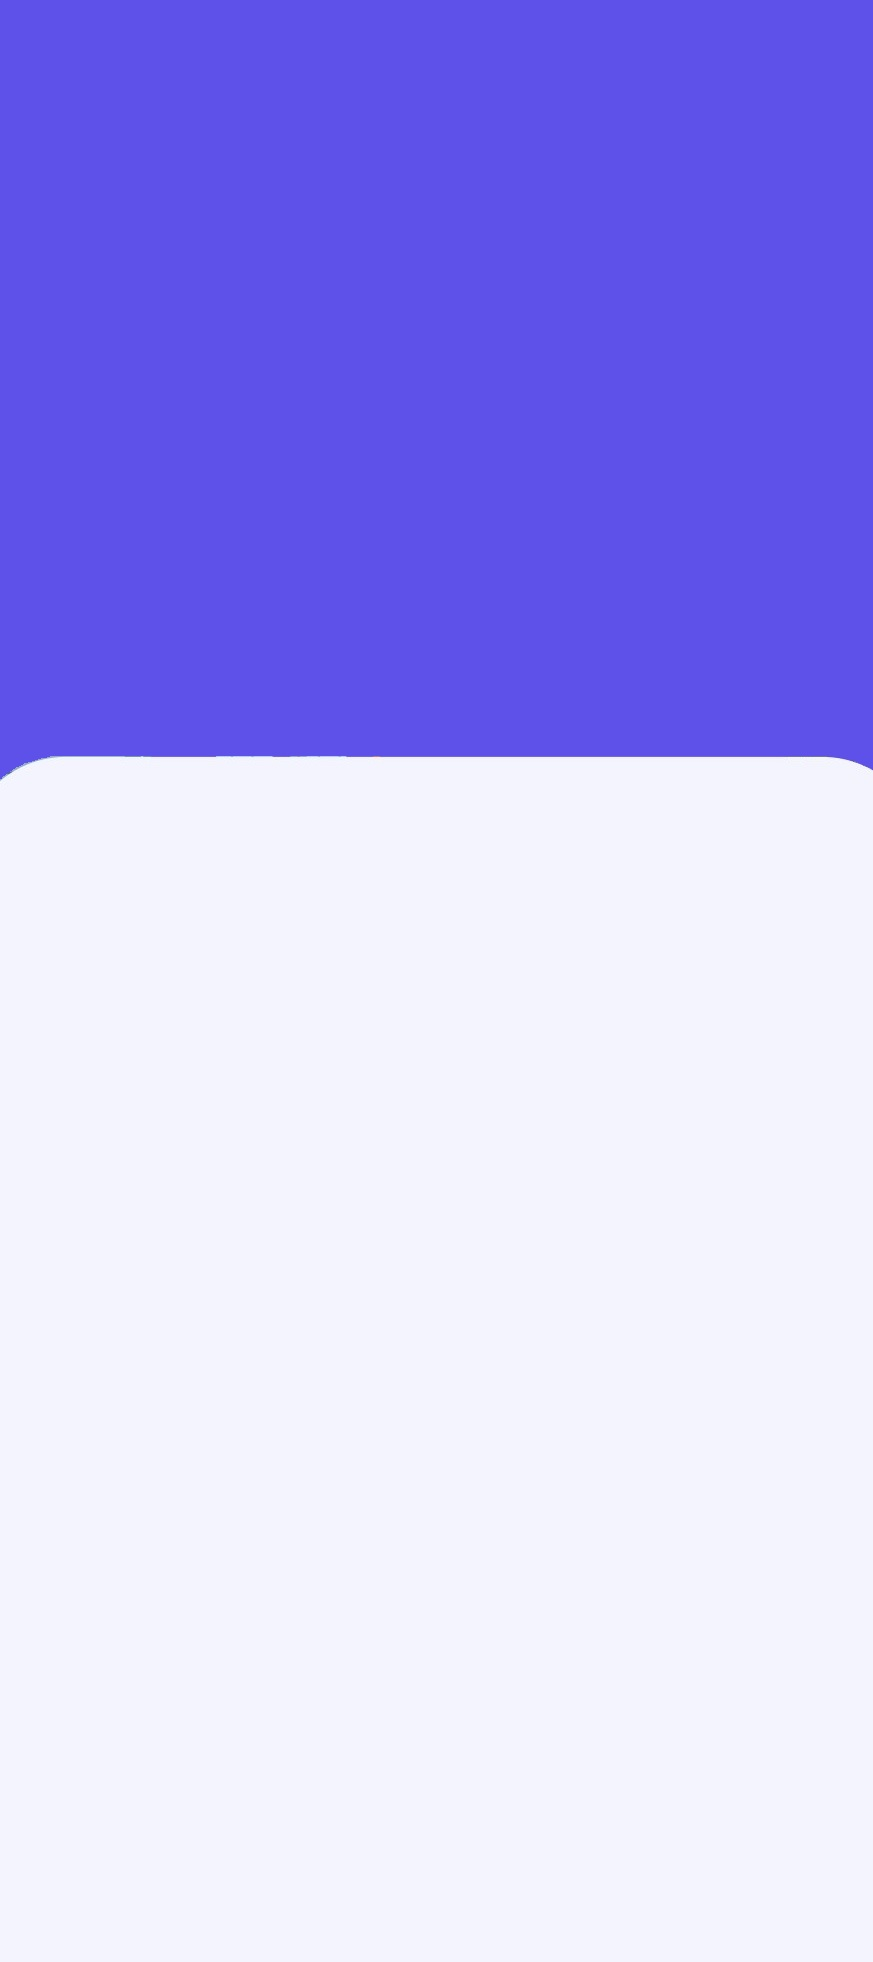
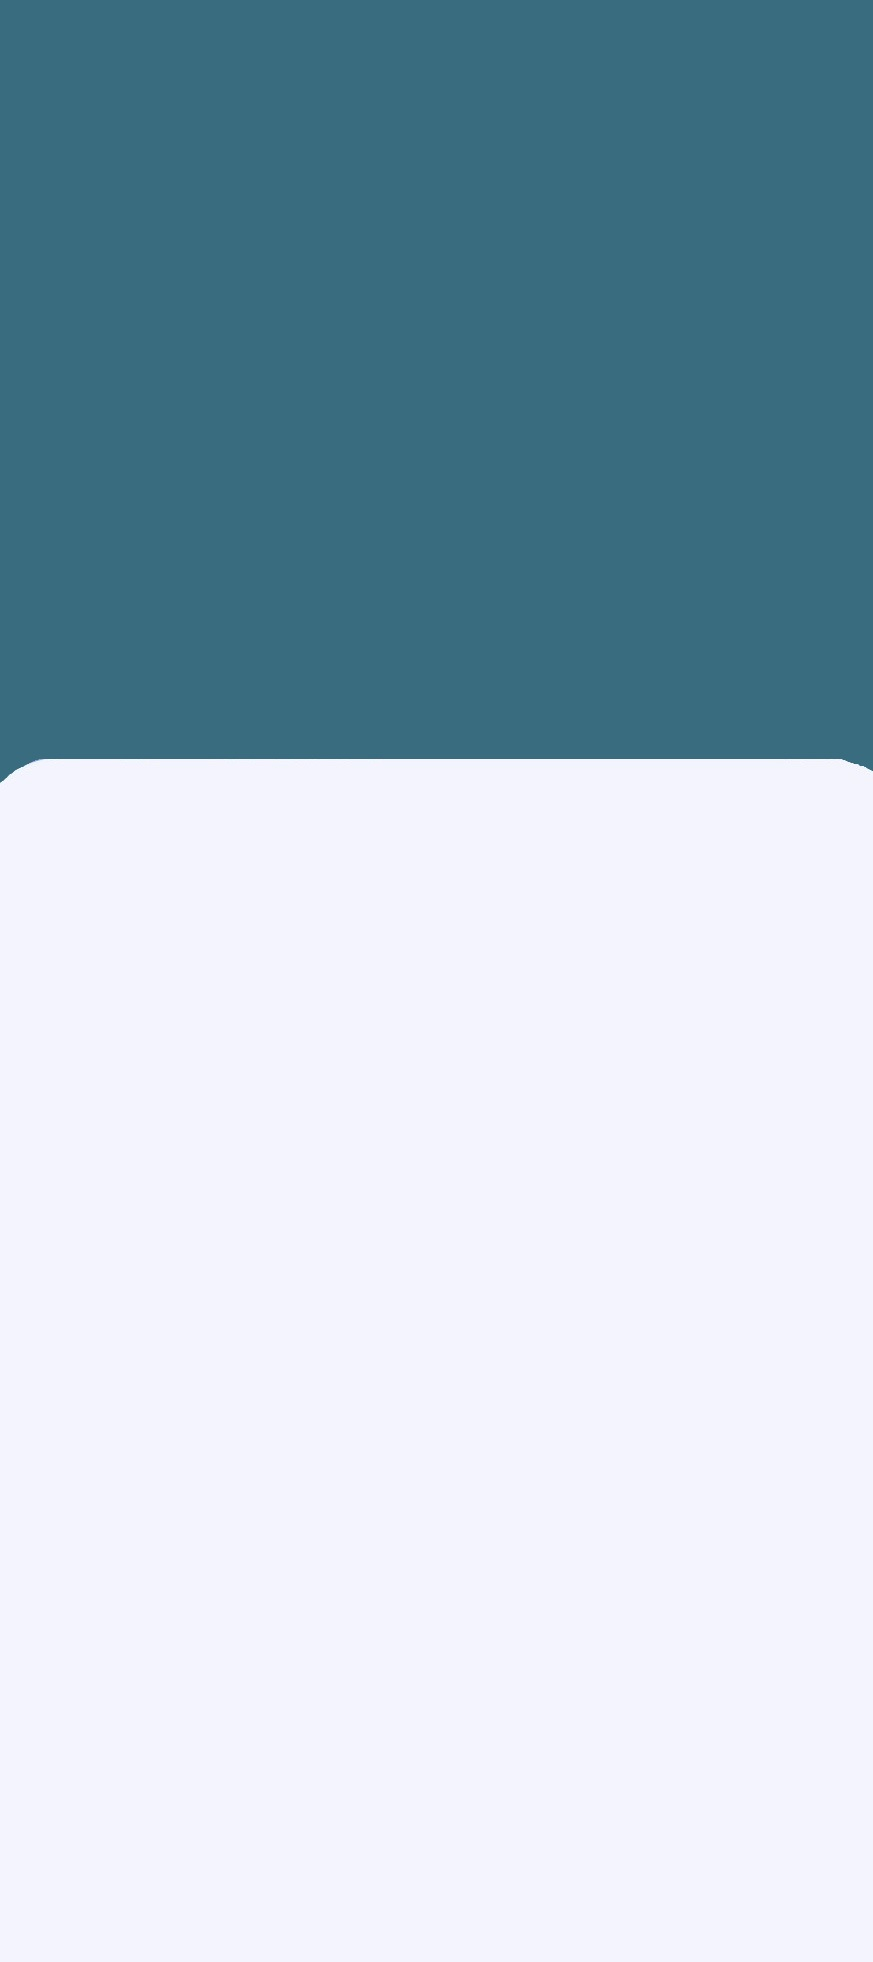
tamal

diff --git a/lib/ver2/editarmedicamento.dart b/lib/ver2/editarmedicamento.dart
@@ -152,144 +152,158 @@ void deleteMedication(BuildContext context, String key, medicationsRef) {
 
 
 
-  @override
-  Widget build(BuildContext context) {
-    return MaterialApp(
-      debugShowCheckedModeBanner: false,
-      home: Scaffold(
-       backgroundColor: Color.fromARGB(255, 244, 244, 254),
-        appBar: AppBar(
-          elevation: 0,
-          backgroundColor: Colors.transparent,
-          leading: IconButton(
-            icon: Icon(Icons.arrow_back, color: Colors.black),
-            onPressed: () {
-              Navigator.pop(context);
-            },
-          ),
-          title: Row(
-            children: [
-              IconButton(
-                icon: Image.asset('assets/iconos/icono2.png'),
-                onPressed: () {},
-              ),
-              SizedBox(width: 8),
-              Text(
-                'Medi plan',
-                style: TextStyle(
-                  color: Color.fromARGB(255, 48, 24, 49),
-                  fontSize: 16,
-                ),
-              ),
-            ],
-          ),
+@override
+Widget build(BuildContext context) {
+  return MaterialApp(
+    debugShowCheckedModeBanner: false,
+    home: Scaffold(
+      backgroundColor: Color.fromARGB(255, 244, 244, 254),
+      appBar: AppBar(
+        elevation: 0,
+        backgroundColor: Colors.transparent,
+        leading: IconButton(
+          icon: Icon(Icons.arrow_back, color: Colors.black),
+          onPressed: () {
+            Navigator.pop(context);
+          },
         ),
-        body: Column(
+        title: Row(
           children: [
+            IconButton(
+              icon: Image.asset('assets/iconos/icono2.png'),
+              onPressed: () {},
+            ),
+            SizedBox(width: 8),
             Text(
-              'Recordatorios',
+              'Medi plan',
               style: TextStyle(
-                fontSize: 20.0,
-                fontWeight: FontWeight.bold,
-              ),
-            ),
-            SizedBox(height: 16),
-            Text(
-              '_',
-              style: TextStyle(
-                fontSize: 16.0,
-                fontWeight: FontWeight.bold,
-                color: Colors.blueGrey,
-              ),
-              textAlign: TextAlign.left,
-            ),
-            Padding(
-              padding: EdgeInsets.all(10.0),
-              child: Column(
-                children: [
-                  ElevatedButton(
-                    onPressed: () => addMedication(context),
-                    child: Text(
-                      'Agregar medicamento',
-                      style: TextStyle( 
-                        fontSize: 15,
-                        color: Colors.white,
-                      ),
-                    ),
-                    style: ElevatedButton.styleFrom(
-                      primary: Color.fromARGB(255, 39, 71, 87),
-                      shape: RoundedRectangleBorder(
-                        borderRadius: BorderRadius.circular(10),
-                      ),
-                      minimumSize: Size(double.infinity, 45),
-                    ),
-                  ),
-                ],
-              ),
-            ),
-            Expanded(
-              child: ListView.builder(
-                itemCount: medication.length,
-                itemBuilder: (context, index) {
-                  String key = medication[index].id; // Utilizar la clave única (ID) del medicamento
-                  return Column(
-                    children: [
-                      ListTile(
-                        leading: GestureDetector(
-                          onTap: () {
-                            showDialog(
-                              context: context,
-                              builder: (BuildContext context) {
-                                return AlertDialog(
-                                  title: Text('Opciones de medicamento'),
-                                  content: Column(
-                                    mainAxisSize: MainAxisSize.min,
-                                    children: [
-                                      ListTile(
-                                        onTap: () {
-                                          Navigator.of(context).pop();
-                                          editMedication(context, medication[index]);
-                                        },
-                                        title: Text('Editar'),
-                                        leading: Icon(Icons.edit),
-                                      ),
-                                      ListTile(
-                                        onTap: () {
-                                          Navigator.of(context).pop();
-                                          deleteMedication(context, key, _medicationsRef);
-                                        },
-                                        title: Text('Eliminar'),
-                                        leading: Icon(Icons.delete),
-                                      ),
-                                    ],
-                                  ),
-                                );
-                              },
-                            );
-                          },
-                          child: Icon(Icons.medication, color: Colors.pinkAccent),
-                        ),
-                        title: Text('${medication[index].nombre}'),
-                        subtitle: Column(
-                          crossAxisAlignment: CrossAxisAlignment.start,
-                          children: [
-                            Text('Propósito: ${medication[index].proposito}'),
-                            Text('Duración de tratamiento: ${medication[index].administracion} días'),
-                            Text('Hora: ${medication[index].sheduleTime}'), // Mostrar la hora de administración
-                          ],
-                        ),
-                      ),
-                      Divider(),
-                    ],
-                  );
-                },
+                color: Color.fromARGB(255, 48, 24, 49),
+                fontSize: 16,
               ),
             ),
           ],
         ),
       ),
-    );
-  }
+      body: Column(
+        children: [
+          Text(
+            'Recordatorios',
+            style: TextStyle(
+              fontSize: 20.0,
+              fontWeight: FontWeight.bold,
+            ),
+          ),
+          SizedBox(height: 16),
+          Text(
+            '_',
+            style: TextStyle(
+              fontSize: 16.0,
+              fontWeight: FontWeight.bold,
+              color: Colors.blueGrey,
+            ),
+            textAlign: TextAlign.left,
+          ),
+          Padding(
+            padding: EdgeInsets.all(10.0),
+            child: Column(
+              children: [
+                ElevatedButton(
+                  onPressed: () => addMedication(context),
+                  child: Text(
+                    'Agregar medicamento',
+                    style: TextStyle(
+                      fontSize: 15,
+                      color: Colors.white,
+                    ),
+                  ),
+                  style: ElevatedButton.styleFrom(
+                    primary: Color.fromARGB(255, 39, 71, 87),
+                    shape: RoundedRectangleBorder(
+                      borderRadius: BorderRadius.circular(10),
+                    ),
+                    minimumSize: Size(double.infinity, 45),
+                  ),
+                ),
+              ],
+            ),
+          ),
+          Expanded(
+            child: ListView.builder(
+              itemCount: medication.length,
+              itemBuilder: (context, index) {
+                String key = medication[index].id;
+                return Padding(
+                  padding: EdgeInsets.symmetric(vertical: 8.0, horizontal: 16.0),
+                  child: Card(
+                    elevation: 4,
+                    shape: RoundedRectangleBorder(
+                      borderRadius: BorderRadius.circular(10),
+                    ),
+                    child: ListTile(
+                      contentPadding: EdgeInsets.all(16),
+                      leading: GestureDetector(
+                        onTap: () {
+                          // Tu lógica aquí...
+                        },
+                        child: Icon(Icons.alarm, color: Color.fromARGB(255, 124, 38, 64)),
+                      ),
+                      title: Text('${medication[index].nombre}'),
+                      subtitle: Column(
+                        crossAxisAlignment: CrossAxisAlignment.start,
+                        children: [
+                          Text('Propósito: ${medication[index].proposito}'),
+                          Text('Duración de tratamiento: ${medication[index].administracion} días'),
+                          Text('Hora: ${medication[index].sheduleTime}'),
+                        ],
+                      ),
+                      onTap: () {
+                        showDialog(
+                          context: context,
+                          builder: (BuildContext context) {
+                            return AlertDialog(
+                              title: Text('Opciones de medicamento'),
+                              content: Column(
+                                mainAxisSize: MainAxisSize.min,
+                                children: [
+                                  ListTile(
+                                    onTap: () {
+                                      Navigator.of(context).push(
+                                        MaterialPageRoute(
+                                          builder: (context) => EditMedicationScreen(
+                                            medicationsRef: _medicationsRef, // Reemplaza con tu referencia real
+                                            medication: medication[index], // El medicamento que se va a editar
+                                          ),
+                                        ),
+                                      );
+                                    },
+                                    title: Text('Editar'),
+                                    leading: Icon(Icons.edit),
+                                  ),
+                                  ListTile(
+                                    onTap: () {
+                                      Navigator.of(context).pop();
+                                      deleteMedication(context, key, _medicationsRef);
+                                    },
+                                    title: Text('Eliminar'),
+                                    leading: Icon(Icons.delete),
+                                  ),
+                                ],
+                              ),
+                            );
+                          },
+                        );
+                      },
+                    ),
+                  ),
+                );
+              },
+            ),
+          ),
+        ],
+      ),
+    ),
+  );
+}
 }
 
 class EditMedicationScreen extends StatefulWidget {

diff --git a/lib/screens/main_screen.dart b/lib/screens/main_screen.dart
@@ -43,7 +43,7 @@ class MainScreen extends StatelessWidget{
       automaticallyImplyLeading: false,
   elevation: 0,
   //backgroundColor: Color.fromARGB(255, 52, 65, 97),
-  backgroundColor: Color.fromARGB(255, 78, 157, 196),
+  backgroundColor: Color.fromARGB(255, 39, 79, 104),
   title: Row(
     
   ),
@@ -304,7 +304,7 @@ Widget _forYou(context) {
                );
             },
             style: ElevatedButton.styleFrom(
-              primary: Color.fromARGB(255, 52, 65, 97), // Color de fondo    Color.fromARGB(255, 123, 59, 51)
+              primary: Color.fromARGB(255, 87, 120, 160),  // Color de fondo    Color.fromARGB(255, 123, 59, 51)
               
               onPrimary: Colors.white, // Color del texto
               //side: BorderSide(color: Color.fromARGB(255, 120, 49, 148), width: 2), // Color y ancho del borde,
@@ -339,13 +339,13 @@ Widget _forYou(context) {
           
           ElevatedButton(
             onPressed: () {
-              //Get.toNamed(Routes.HOME);   " or "Get.lazyPut(()=>HomeController())
+              //   
                Navigator.push( context,
                 MaterialPageRoute(builder: (context) => splashcalendario()),
              );
             },
             style: ElevatedButton.styleFrom(
-              primary: Color.fromARGB(255, 87, 120, 160), // Color de fondo 255, 104, 169, 115
+              primary: Color.fromARGB(255, 52, 65, 97), // Color de fondo 255, 104, 169, 115
               
               onPrimary: Colors.white, // Color del texto
               //side: BorderSide(color: Color.fromARGB(255, 120, 49, 148), width: 2), // Color y ancho del borde,
@@ -382,7 +382,7 @@ Widget _forYou(context) {
              
             },
             style: ElevatedButton.styleFrom(
-              primary: Color.fromARGB(255, 86, 175, 113) ,// Color de fondo
+              primary: Color.fromARGB(255, 58, 97, 79) ,// Color de fondo
               onPrimary: Colors.white, // Color del texto
               //side: BorderSide(color: Color.fromARGB(255, 120, 49, 148), width: 2), // Color y ancho del borde,
               shape: RoundedRectangleBorder(borderRadius: BorderRadius.circular(10),),

diff --git a/lib/screens/splash_dos.dart b/lib/screens/splash_dos.dart
@@ -11,7 +11,7 @@ class Splashdos extends StatelessWidget {
   @override
   Widget build(BuildContext context) {
     return Scaffold(
-      backgroundColor: Color.fromARGB(255, 78, 157, 196), // Fondo azul
+      backgroundColor: Color.fromARGB(255, 58, 108, 127), // Fondo azul
       body: Center(
         child: Container(
           padding: EdgeInsets.symmetric(horizontal: 10),
@@ -32,7 +32,7 @@ class Splashdos extends StatelessWidget {
                 style: TextStyle(
                   fontSize: 24,
                   fontWeight: FontWeight.bold,
-                  color: Color.fromARGB(255, 52, 65, 97), 
+                  color: Color.fromARGB(255, 2, 42, 46), 
                 ),
               ),
               SizedBox(height: 10),
@@ -100,7 +100,7 @@ class Splashdos extends StatelessWidget {
                   Text(
                     'No tiene una cuenta? ',
                     style: TextStyle(
-                      color: Color.fromARGB(255, 64, 66, 78),
+                      color: Color.fromARGB(255, 2, 42, 46), 
                       fontSize: 12,
                     ),
                   ),

diff --git a/lib/screens/formulario2.dart b/lib/screens/formulario2.dart
@@ -44,7 +44,7 @@ class _UserProfileScreenState extends State<UserProfileScreen> {
       appBar: AppBar(
         title: Text('Perfil'),
         elevation: 0,
-        backgroundColor: Color.fromARGB(255, 94, 81, 233),
+        backgroundColor: Color.fromARGB(255, 58, 108, 127),
       ),
       body: Stack(
         children: [
@@ -118,7 +118,8 @@ class _UserProfileScreenState extends State<UserProfileScreen> {
                   },
                   child: Text('Cerrar Sesión'),
                   style: ElevatedButton.styleFrom(
-                    primary: Color.fromARGB(255, 93, 86, 196),
+                    //Color.fromARGB(255, 93, 86, 196),
+                    primary: Color.fromARGB(255, 58, 108, 127),
                     shape: RoundedRectangleBorder(
                       borderRadius: BorderRadius.circular(10),
                     ),
